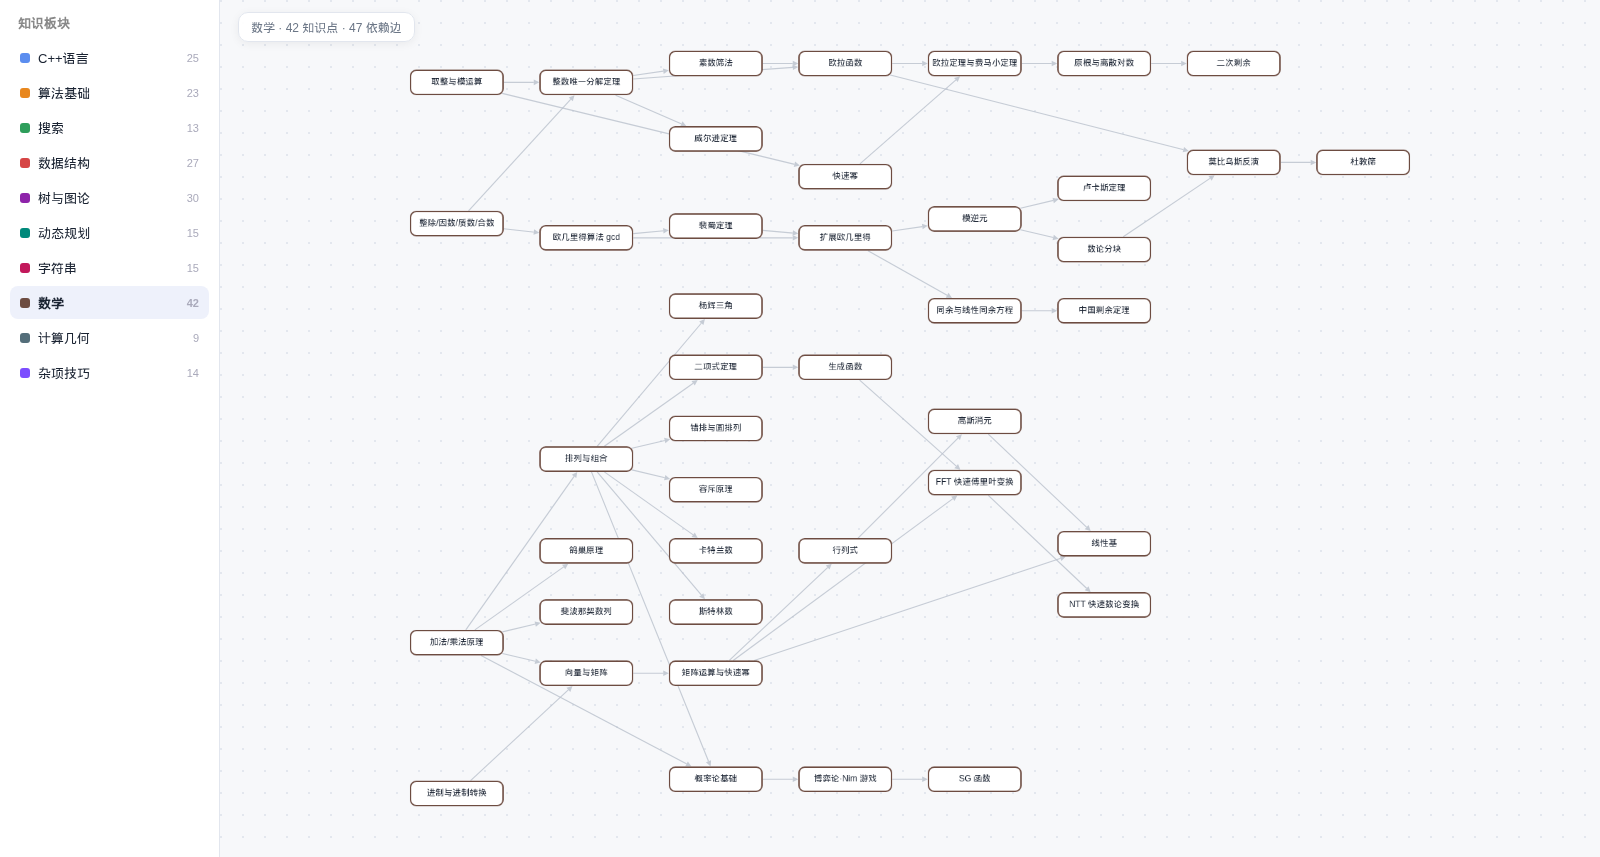
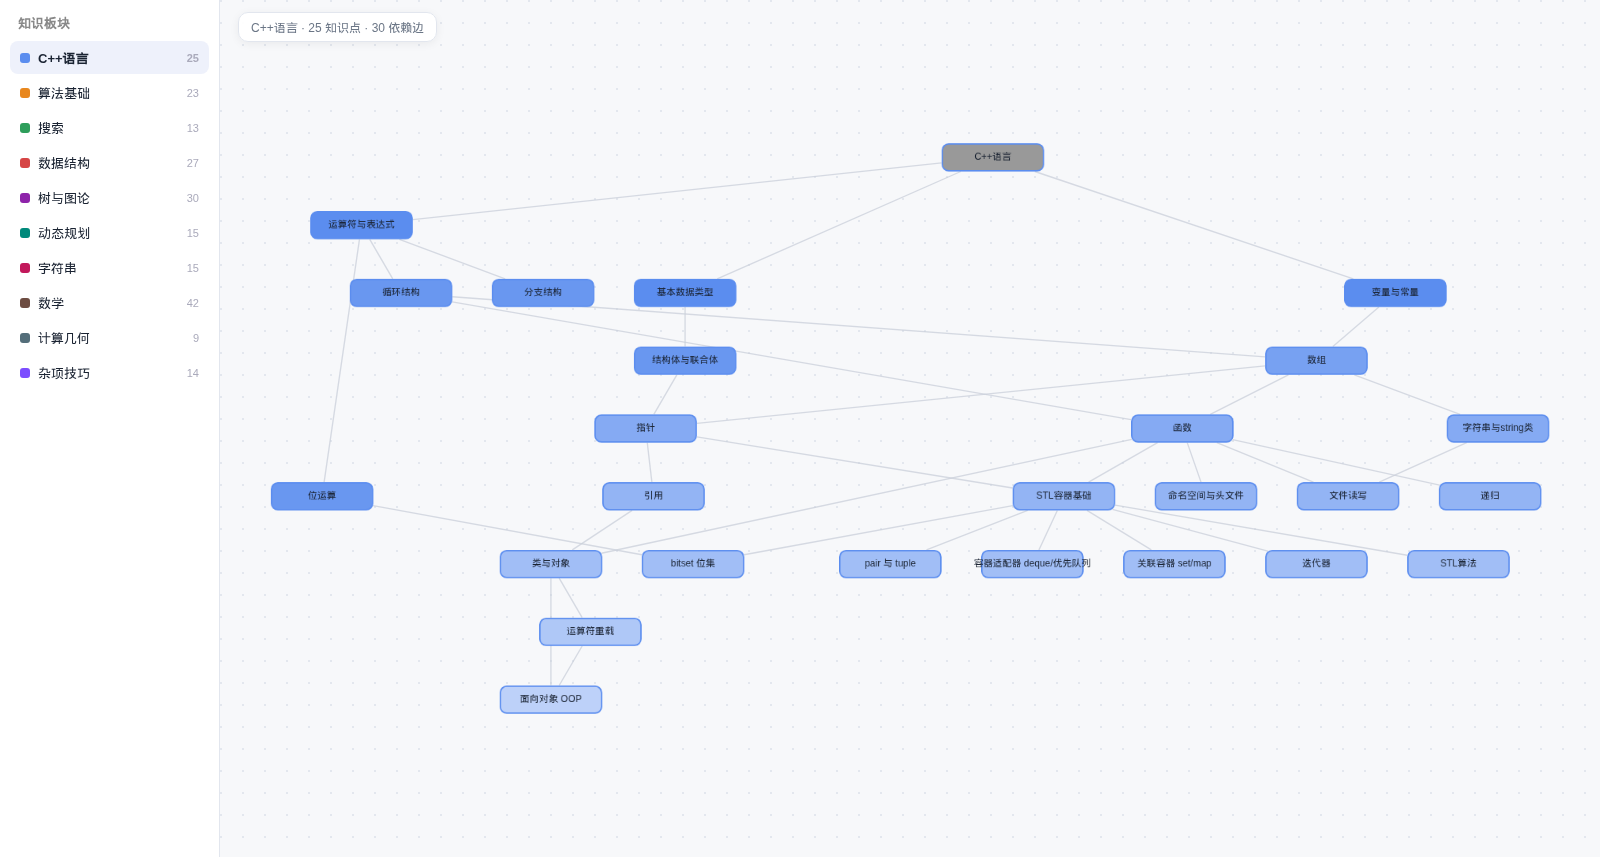
demo-tree: 纵向思维导图树（深度渐变着色 + 板块名根节点）

diff --git a/demo-tree.html b/demo-tree.html
@@ -1932,31 +1932,63 @@ function showGroup(gid){
   glist.children[idx].classList.add("active");
   const g = d.groups[idx];
   const ids = new Set(g.nodes.map(n => n.id));
-  const elements = [];
-  g.nodes.forEach(nd => elements.push({
-    data: { id: nd.id, label: nd.n, color: gColor[g.id], diff: nd.diff }
-  }));
-  let eid = 0;
+  // 计算依赖深度（前置链长度，环保护）——思维导图按深度渐变着色
+  const ins = {}; ids.forEach(id => ins[id] = []);
+  const intraEdges = [];
   (d.edges || []).forEach(e => {
     const s = Array.isArray(e) ? e[0] : e.from, t = Array.isArray(e) ? e[1] : e.to;
-    if (ids.has(s) && ids.has(t)) elements.push({ data: { id: "e" + (eid++), source: s, target: t } });
+    if (ids.has(s) && ids.has(t)){ intraEdges.push([s, t]); ins[t].push(s); }
   });
+  const depth = {};
+  const calcD = (id, vis) => {
+    if (vis.has(id)) return 0;
+    if (depth[id] !== undefined) return depth[id];
+    vis.add(id);
+    depth[id] = ins[id].length ? Math.max(...ins[id].map(p => calcD(p, vis))) + 1 : 0;
+    vis.delete(id);
+    return depth[id];
+  };
+  g.nodes.forEach(n => calcD(n.id, new Set()));
+  const maxD = Math.max(...g.nodes.map(n => depth[n.id]));
+  // 思维导图着色：并列根深色 → 叶子浅色
+  const fill = (hex, dp) => {
+    const r = maxD > 0 ? dp / maxD * 0.6 : 0;
+    const n = parseInt(hex.slice(1), 16);
+    const mix = c => Math.round(c + (255 - c) * r);
+    return `rgb(${mix((n >> 16) & 255)},${mix((n >> 8) & 255)},${mix(n & 255)})`;
+  };
+  const elements = [];
+  // 板块名 = 思维导图根节点
+  elements.push({ data: { id: "root-" + g.id, label: g.name, color: gColor[g.id], isRoot: true } });
+  g.nodes.forEach(nd => elements.push({
+    data: { id: nd.id, label: nd.n, color: gColor[g.id], fill: fill(gColor[g.id], depth[nd.id]) }
+  }));
+  let eid = 0;
+  // 根节点 → 并列根知识点（深度0）
+  g.nodes.forEach(nd => { if (depth[nd.id] === 0) elements.push({ data: { id: "re" + (eid++), source: "root-" + g.id, target: nd.id, isRootEdge: true, color: gColor[g.id] } }); });
+  // 组内依赖边
+  intraEdges.forEach(([s, t]) => elements.push({ data: { id: "e" + (eid++), source: s, target: t } }));
   if (cy) cy.destroy();
   cy = cytoscape({
     container: document.getElementById("cy"),
     elements,
-    layout: { name: "dagre", rankDir: "LR", nodesep: 22, ranksep: 90, padding: 30 },
+    layout: { name: "dagre", rankDir: "TB", nodesep: 26, ranksep: 115, padding: 40 },
     wheelSensitivity: 0.2, minZoom: 0.02, maxZoom: 3, boxSelectionEnabled: false,
     style: [
       { selector: "node", style: {
-        "background-color": "#fff", "border-color": "data(color)", "border-width": 2,
-        "shape": "round-rectangle", "width": 130, "height": 34, "label": "data(label)",
+        "background-color": "data(fill)", "border-color": "data(color)", "border-width": 1.8,
+        "shape": "round-rectangle", "width": 128, "height": 34, "label": "data(label)",
         "font-size": 12, "color": "#1a2332", "text-valign": "center", "text-halign": "center",
         "overlay-opacity": 0 } },
+      { selector: "node[isRoot='true']", style: {
+        "background-color": "data(color)", "color": "#fff", "font-size": 17, "font-weight": 700,
+        "shape": "round-rectangle", "width": 168, "height": 42, "border-width": 0,
+        "text-valign": "center", "text-halign": "center", "overlay-opacity": 0 } },
       { selector: "edge", style: {
-        "curve-style": "bezier", "width": 1.6, "line-color": "#b9c0cc",
-        "target-arrow-shape": "triangle", "target-arrow-color": "#b9c0cc", "arrow-scale": 0.9,
-        "opacity": 0.8 } },
+        "curve-style": "bezier", "width": 1.7, "line-color": "#c9cfd9",
+        "target-arrow-shape": "none", "opacity": 0.75 } },
+      { selector: "edge[isRootEdge='true']", style: {
+        "curve-style": "bezier", "width": 2.4, "line-color": "data(color)", "opacity": 0.9 } },
       { selector: ".dim", style: { "opacity": 0.12 } },
       { selector: ".hl", style: { "border-width": 3.5, "border-color": "#ffd54f", "z-index": 20 } },
     ],
@@ -1964,19 +1996,24 @@ function showGroup(gid){
   cy.fit(undefined, 50);
   window.cy = cy; // 便于调试与外部扩展
   document.getElementById("stats").textContent =
-    `${g.name} · ${g.nodes.length} 知识点 · ${elements.length - g.nodes.length} 依赖边`;
+    `${g.name} · ${g.nodes.length} 知识点 · ${intraEdges.length} 依赖边`;
   bindInteractions();
 }
 
 // 交互：悬停高亮前后置链、点击详情
 function bindInteractions(){
   cy.on("mouseover", "node", evt => {
-    const hit = neighbors(evt.target.id());
+    const n = evt.target;
+    if (n.data("isRoot")){ cy.elements().removeClass("dim hl"); return; }
+    const hit = neighbors(n.id());
     cy.elements().removeClass("hl");
-    cy.nodes().forEach(n => n.addClass(hit.has(n.id()) ? "hl" : "dim"));
+    cy.nodes().forEach(x => x.addClass(hit.has(x.id()) ? "hl" : "dim"));
   });
   cy.on("mouseout", "node", () => cy.elements().removeClass("dim hl"));
-  cy.on("tap", "node", evt => showDetail(evt.target.id()));
+  cy.on("tap", "node", evt => {
+    const n = evt.target;
+    if (!n.data("isRoot")) showDetail(n.id());
+  });
 }
 function neighbors(id){
   const hit = new Set([id]);
